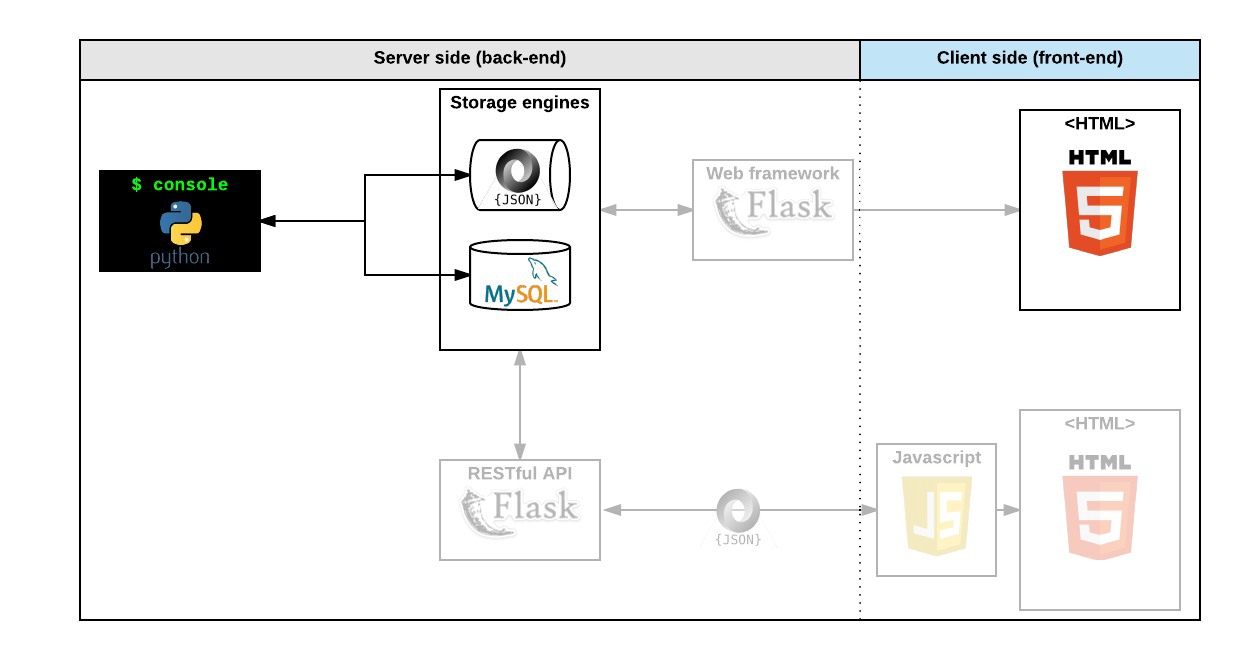
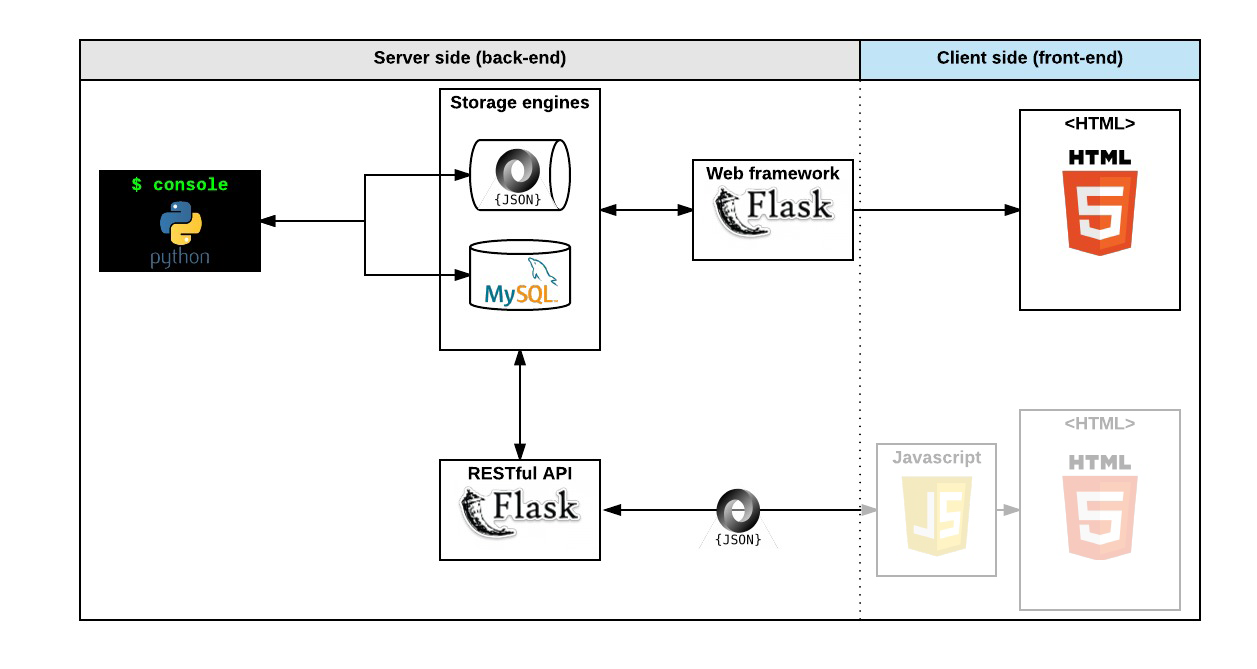
updated readme with relevants info

diff --git a/README.md b/README.md
@@ -1,5 +1,5 @@
 <p align="center">
- <h1 align="center"> AirBnB clone - The console </h1>
+ <h1 align="center"> AirBnB clone - RESTful API </h1>
  <a href="" rel="noopener">
  <img src="https://github.com/bdbaraban/AirBnB_clone_v2/raw/master/assets/hbnb_logo.png">
 
@@ -11,7 +11,7 @@
 
 ---
 
-<p align="center"> This project aims to develop a command-line interpreter for managing objects in an AirBnB-like application. The interpreter facilitates the creation, storage, retrieval, updating, and deletion of various objects such as users, states, cities, and places.
+<p align="center"> This project aims to develop a command-line interpreter and a RESTful API for managing objects in an AirBnB-like application. The interpreter and API facilitate the creation, storage, retrieval, updating, and deletion of various objects such as users, states, cities, and places.
     <br> 
 </p>
 
@@ -25,25 +25,24 @@
 
 ## About <a name = "about"></a> 🧐
 
-This project presents a command-line interpreter designed for managing objects within an AirBnB-like application. Users can efficiently create, store, retrieve, update, and delete entities like users, states, cities, and places directly from their terminal.
+This project presents a command-line interpreter and a RESTful API designed for managing objects within an AirBnB-like application. Users can efficiently create, store, retrieve, update, and delete entities like users, states, cities, and places directly from their terminal or through HTTP requests using the API.
+
 The core of the project is a robust object-oriented structure featuring a parent class (BaseModel) that handles essential functionalities such as initialization and serialization. A streamlined serialization process allows the interpreter to seamlessly convert object instances to dictionaries, JSON strings, and ultimately to files for efficient data storage and retrieval.
 
-![](https://github.com/VoiceOfDarkness/holbertonschool-AirBnB_clone_v2/blob/master/assets/image.png)
-
-### New Feature: DBStorage
+### New Feature: DBStorage and RESTful API with Flask
 
 This updated version introduces DBStorage, a new storage mechanism that leverages a MySQL database for persisting application data. By setting the environment variable `HBNB_TYPE_STORAGE=db`, the application utilizes a `DBStorage` instance to interact with the database. This instance connects to the MySQL server using credentials and database information specified in environment variables (`HBNB_MYSQL_USER`, `HBNB_MYSQL_PWD`, `HBNB_MYSQL_HOST`, and `HBNB_MYSQL_DB`).
-With DBStorage, any changes made to objects through the command-line interface are automatically reflected in the MySQL database, ensuring data persistence and consistency. SQLAlchemy facilitates connections and queries to the database.
-Note: Before using DBStorage, ensure the relevant databases (`hbnb_dev_db` and `hbnb_test_db`) are created and configured on the MySQL server. The provided scripts (`setup_mysql_dev.sql` and `setup_mysql_test.sql`) can be used for this purpose.
-This project serves as a crucial foundation for building a fully functional AirBnB clone web application. By establishing a solid groundwork with object classes, serialization mechanisms, and now database integration through DBStorage, future development phases like HTML/CSS templating, API development, and front-end implementation can be seamlessly built upon this base. Comprehensive unit tests continue to ensure the reliability and robustness of the application throughout its development lifecycle.
-Ultimately, this project delivers a powerful and user-friendly tool for managing AirBnB-like data, paving the way for a smooth and immersive web experience for both hosts and guests.
+
+Additionally, this version integrates a RESTful API built with Flask, allowing external applications and services to interact with the AirBnB clone application programmatically via HTTP methods. The API provides endpoints for all CRUD operations, making it flexible and easy to integrate with front-end frameworks and other tools.
 
 ## Getting Started <a name = "getting_started"></a> 🏁
 
-1.Clone the repo
+1. Clone the repo
+
+
 
 ```
-$ git clone https://github.com/VoiceOfDarkness/holbertonschool-AirBnB_clone.git
+$ git clone https://github.com/VoiceOfDarkness/holbertonschool-AirBnB_clone_v3.git
 
 ```
 
@@ -55,11 +54,21 @@ $ ./console.py
 
 ## Requirements 📃
 
-No requirements needed on this stage of project :)
+- Python 3.7+
+- Flask
+- MySQL
+- SQLAlchemy
+
+or run 
+```
+$ pip install -r requiements.txt
+```
 
 ## Running the tests <a name = "tests"></a> 🔧
 
 Unittests for the HolbertonBnB project are defined in the tests folder. To run the entire test suite simultaneously, execute the following command:
+
+
 
 ```
 $ python3 unittest -m discover tests
@@ -149,8 +158,8 @@ The HolbertonBnB console supports the following commands:
 
 ## Authors <a name = "authors"></a> ✍
 
-- [@VoiceOfDarkness](https://github.com/VoiceOfDarkness) - Initial Work
-- [lunarinaa](https://github.com/lunarinaa) - Support
+- [@VoiceOfDarkness](https://github.com/VoiceOfDarkness)
+- [@heydarov93](https://github.com/heydarov93)
 
 ### Special Credits:
 
